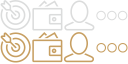
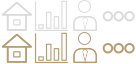
update footer nav

diff --git a/mobile/source/styles/main.less b/mobile/source/styles/main.less
@@ -570,7 +570,7 @@ a {
     bottom: 0;
     left: 0;
     right: 0;
-    background-color: #231815;
+    background-color: #000;
     padding: 6px 0;
     line-height: 1;
     font-size: 12px;
@@ -578,10 +578,10 @@ a {
     box-shadow: inset 0 1px @color-gray-light;
 
     li {
-        color: #DBDCDC;
+        color: #DADBDA;
 
         &.active {
-            color: #C79F62;
+            color: #B79E72;
         }
 
         a {
@@ -596,8 +596,8 @@ a {
             display: block;
             margin: 5px auto 6px;
             background: url("@{path-image}/nav-icons.png") no-repeat;
-            background-size: 128px/2 64px/2;
-            width: 32px/2;
+            background-size: 136px/2 64px/2;
+            width: 34px/2;
             height: 32px/2;
             overflow: hidden;
 
@@ -606,15 +606,15 @@ a {
             }
 
             &-path {
-                background-position: -32px/2 0;
+                background-position: -34px/2 0;
             }
 
             &-user {
-                background-position: -64px/2 0;
+                background-position: -68px/2 0;
             }
 
             &-option-horizontal {
-                background-position: -96px/2 0;
+                background-position: -102px/2 0;
             }
         }
 
@@ -625,15 +625,15 @@ a {
                 }
 
                 &-path {
-                    background-position: -32px/2 -32px/2;
+                    background-position: -34px/2 -32px/2;
                 }
 
                 &-user {
-                    background-position: -64px/2 -32px/2;
+                    background-position: -68px/2 -32px/2;
                 }
 
                 &-option-horizontal {
-                    background-position: -96px/2 -32px/2;
+                    background-position: -102px/2 -32px/2;
                 }
             }
         }

diff --git a/mobile/source/components/footer/footer.tmpl.html b/mobile/source/components/footer/footer.tmpl.html
@@ -13,21 +13,21 @@
         <li class="col-xs-3" ng-class="{ active: state === 'landing' }">
             <a href="./">
                 <param class="icon icon-home">
-                精品推荐
+                首页
             </a>
         </li>
 
         <li class="col-xs-3" ng-class="{ active: state === 'list' }">
             <a href="list">
                 <param class="icon icon-path">
-                投资理财
+                理财
             </a>
         </li>
 
         <li class="col-xs-3" ng-class="{ active: state === 'dashboard' }">
             <a href="dashboard">
                 <param class="icon icon-user">
-                我的账户
+                我的
             </a>
         </li>
 
